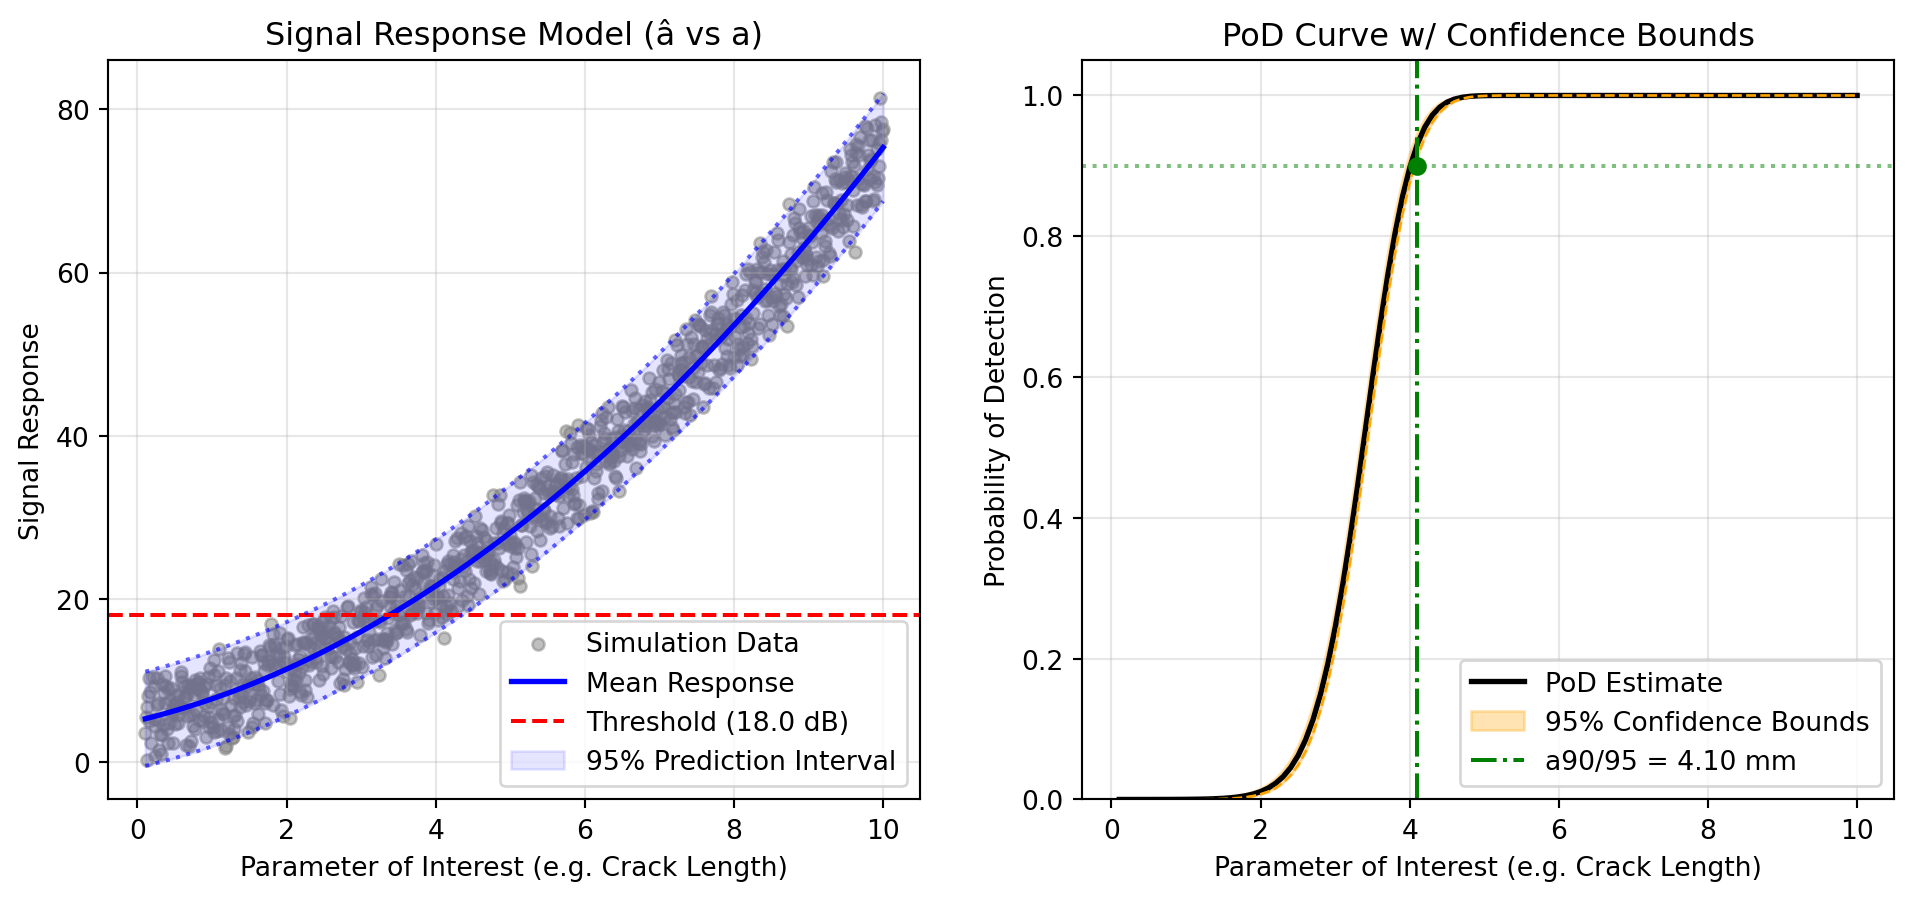
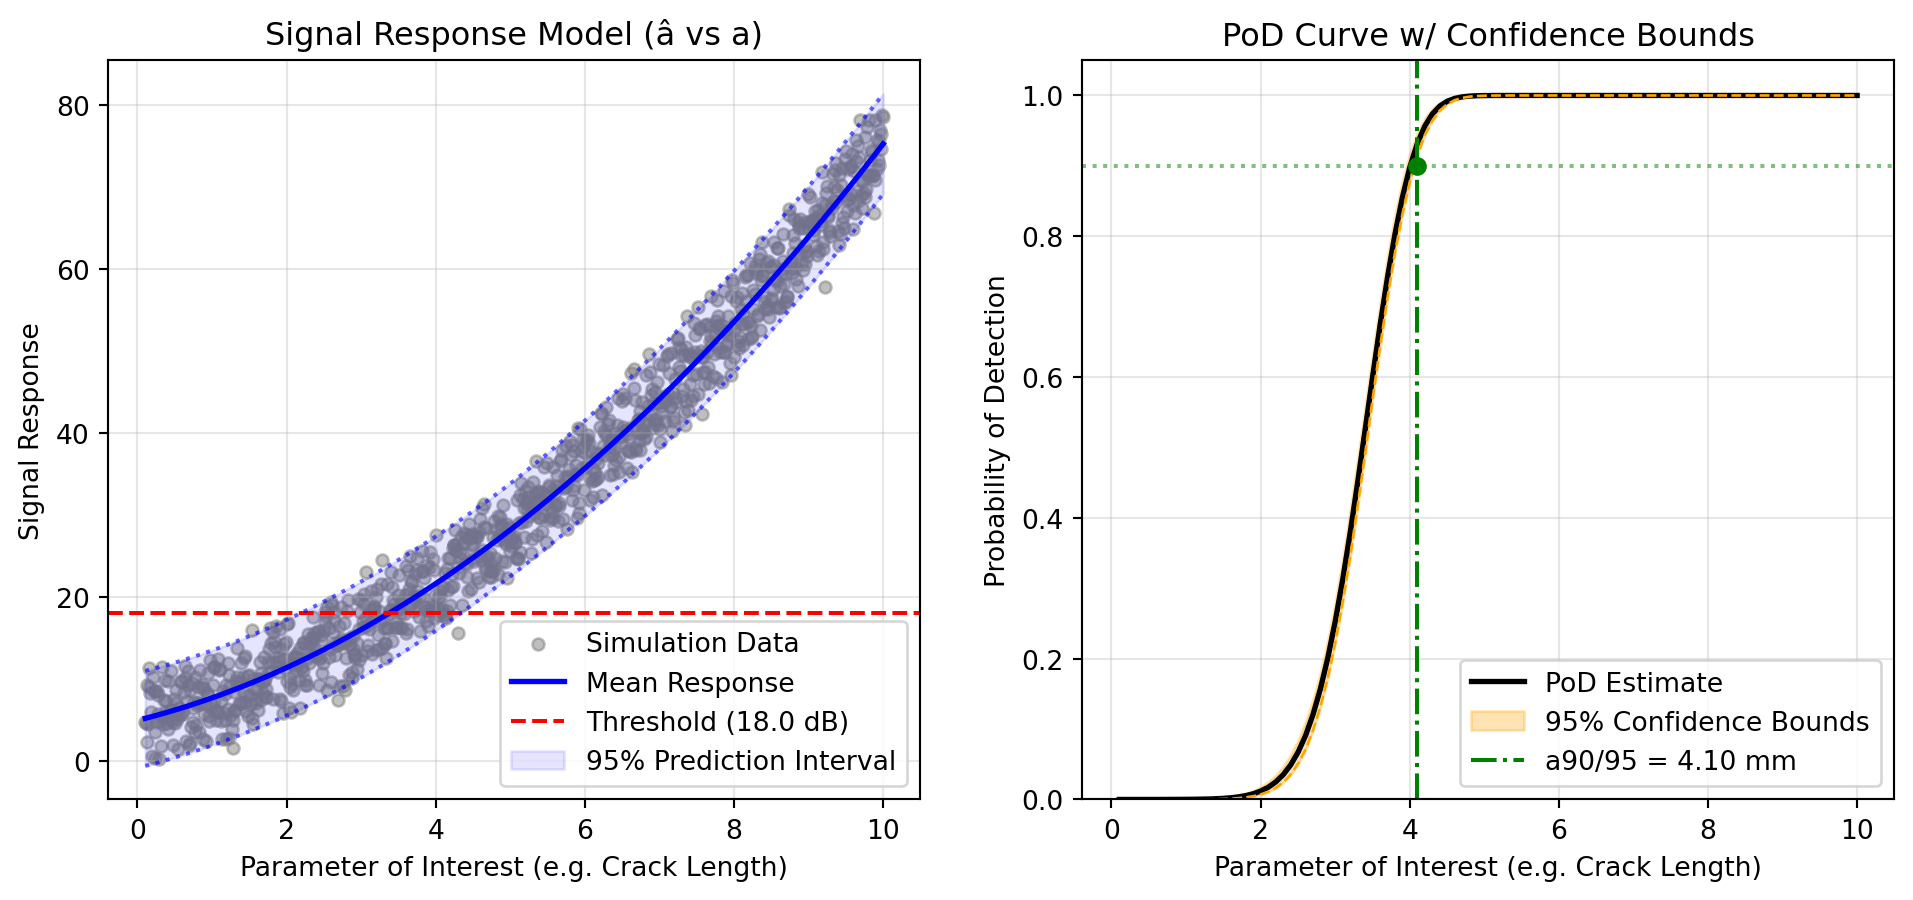
Built site for gh-pages

diff --git a/docs/quick_start_oop.html b/docs/quick_start_oop.html
@@ -433,7 +433,7 @@ pre > code.sourceCode > span > a:first-child::before { text-decoration: underlin
 <section id="setup-flawed-data-generation" class="level3">
 <h3 class="anchored" data-anchor-id="setup-flawed-data-generation">1. Setup &amp; “Flawed” Data Generation</h3>
 <p>First, we define our physics simulation and create a dataset with a deliberate gap (missing data between 3mm and 7mm).</p>
-<div id="d4b56255" class="cell" data-execution_count="1">
+<div id="da3256a0" class="cell" data-execution_count="1">
 <div class="code-copy-outer-scaffold"><div class="sourceCode cell-code" id="cb1"><pre class="sourceCode python code-with-copy"><code class="sourceCode python"><span id="cb1-1"><a href="#cb1-1" aria-hidden="true" tabindex="-1"></a><span class="im">import</span> numpy <span class="im">as</span> np</span>
 <span id="cb1-2"><a href="#cb1-2" aria-hidden="true" tabindex="-1"></a><span class="im">import</span> pandas <span class="im">as</span> pd</span>
 <span id="cb1-3"><a href="#cb1-3" aria-hidden="true" tabindex="-1"></a><span class="im">import</span> digiqual <span class="im">as</span> dq</span>
@@ -483,7 +483,7 @@ pre > code.sourceCode > span > a:first-child::before { text-decoration: underlin
 <section id="diagnosis-detecting-the-issue" class="level3">
 <h3 class="anchored" data-anchor-id="diagnosis-detecting-the-issue">2. Diagnosis (Detecting the Issue)</h3>
 <p>We now ask the study manager to diagnose the health of our experiment. We expect it to flag the Input Coverage test because of the gap we created.</p>
-<div id="789486cc" class="cell" data-execution_count="2">
+<div id="a0acb8c0" class="cell" data-execution_count="2">
 <div class="code-copy-outer-scaffold"><div class="sourceCode cell-code" id="cb3"><pre class="sourceCode python code-with-copy"><code class="sourceCode python"><span id="cb3-1"><a href="#cb3-1" aria-hidden="true" tabindex="-1"></a>study.diagnose()</span></code></pre></div><button title="Copy to Clipboard" class="code-copy-button"><i class="bi"></i></button></div>
 <div class="cell-output cell-output-stdout">
 <pre><code>Running validation...
@@ -511,7 +511,7 @@ Checking sample sufficiency...</code></pre>
 <td>Input Coverage</td>
 <td>Length</td>
 <td>Max Gap Ratio</td>
-<td>0.4385</td>
+<td>0.4304</td>
 <td>False</td>
 </tr>
 <tr class="even">
@@ -519,7 +519,7 @@ Checking sample sufficiency...</code></pre>
 <td>Input Coverage</td>
 <td>Angle</td>
 <td>Max Gap Ratio</td>
-<td>0.1492</td>
+<td>0.1007</td>
 <td>True</td>
 </tr>
 <tr class="odd">
@@ -527,7 +527,7 @@ Checking sample sufficiency...</code></pre>
 <td>Input Coverage</td>
 <td>Roughness</td>
 <td>Max Gap Ratio</td>
-<td>0.0871</td>
+<td>0.1401</td>
 <td>True</td>
 </tr>
 <tr class="even">
@@ -543,7 +543,7 @@ Checking sample sufficiency...</code></pre>
 <td>Bootstrap Convergence</td>
 <td>Signal</td>
 <td>Relative CI Width</td>
-<td>0.2391</td>
+<td>0.1017</td>
 <td>False</td>
 </tr>
 </tbody>
@@ -556,7 +556,7 @@ Checking sample sufficiency...</code></pre>
 <section id="adaptive-refinement-the-fix" class="level3">
 <h3 class="anchored" data-anchor-id="adaptive-refinement-the-fix">3. Adaptive Refinement (The Fix)</h3>
 <p>Instead of manually guessing where to add points, we use refine(). The study manager automatically detects the gap and generates targeted samples to fill it.</p>
-<div id="b7eb5409" class="cell" data-execution_count="3">
+<div id="c6aca30f" class="cell" data-execution_count="3">
 <div class="code-copy-outer-scaffold"><div class="sourceCode cell-code" id="cb5"><pre class="sourceCode python code-with-copy"><code class="sourceCode python"><span id="cb5-1"><a href="#cb5-1" aria-hidden="true" tabindex="-1"></a><span class="co"># Generate active learning samples (20 points to fill the gap)</span></span>
 <span id="cb5-2"><a href="#cb5-2" aria-hidden="true" tabindex="-1"></a>new_samples <span class="op">=</span> study.refine(n_points<span class="op">=</span><span class="dv">20</span>)</span>
 <span id="cb5-3"><a href="#cb5-3" aria-hidden="true" tabindex="-1"></a></span>
@@ -586,7 +586,7 @@ Checking sample sufficiency...</code></pre>
 </div>
 </div>
 <p>Now we verify that the issue is resolved:</p>
-<div id="3331cd2f" class="cell" data-execution_count="4">
+<div id="8304bc5f" class="cell" data-execution_count="4">
 <div class="code-copy-outer-scaffold"><div class="sourceCode cell-code" id="cb8"><pre class="sourceCode python code-with-copy"><code class="sourceCode python"><span id="cb8-1"><a href="#cb8-1" aria-hidden="true" tabindex="-1"></a><span class="co"># Re-run diagnostics to confirm the green light</span></span>
 <span id="cb8-2"><a href="#cb8-2" aria-hidden="true" tabindex="-1"></a>study.diagnose()</span></code></pre></div><button title="Copy to Clipboard" class="code-copy-button"><i class="bi"></i></button></div>
 <div class="cell-output cell-output-stdout">
@@ -615,7 +615,7 @@ Checking sample sufficiency...</code></pre>
 <td>Input Coverage</td>
 <td>Length</td>
 <td>Max Gap Ratio</td>
-<td>0.0429</td>
+<td>0.0726</td>
 <td>True</td>
 </tr>
 <tr class="even">
@@ -623,7 +623,7 @@ Checking sample sufficiency...</code></pre>
 <td>Input Coverage</td>
 <td>Angle</td>
 <td>Max Gap Ratio</td>
-<td>0.0526</td>
+<td>0.0516</td>
 <td>True</td>
 </tr>
 <tr class="odd">
@@ -631,7 +631,7 @@ Checking sample sufficiency...</code></pre>
 <td>Input Coverage</td>
 <td>Roughness</td>
 <td>Max Gap Ratio</td>
-<td>0.0560</td>
+<td>0.0642</td>
 <td>True</td>
 </tr>
 <tr class="even">
@@ -639,7 +639,7 @@ Checking sample sufficiency...</code></pre>
 <td>Model Fit (CV)</td>
 <td>Signal</td>
 <td>Mean R2 Score</td>
-<td>0.9983</td>
+<td>0.9979</td>
 <td>True</td>
 </tr>
 <tr class="odd">
@@ -647,7 +647,7 @@ Checking sample sufficiency...</code></pre>
 <td>Bootstrap Convergence</td>
 <td>Signal</td>
 <td>Relative CI Width</td>
-<td>0.0308</td>
+<td>0.0418</td>
 <td>True</td>
 </tr>
 </tbody>
@@ -698,9 +698,9 @@ Checking sample sufficiency...</code></pre>
 <div class="cell-output cell-output-stdout">
 <pre><code>--- Starting Reliability Analysis (PoI: Length) ---
 1. Selecting Mean Model (Cross-Validation)...
-   -&gt; Selected Polynomial Degree: 5
+   -&gt; Selected Polynomial Degree: 3
 2. Fitting Variance Model (Kernel Smoothing)...
-   -&gt; Smoothing Bandwidth: 0.9796
+   -&gt; Smoothing Bandwidth: 0.9681
 3. Inferring Error Distribution (AIC)...
    -&gt; Selected Distribution: norm
 4. Computing PoD Curve...

diff --git a/docs/quick_start_function.html b/docs/quick_start_function.html
@@ -462,7 +462,7 @@ window.Quarto = {
 <section id="generating-an-experimental-design" class="level3">
 <h3 class="anchored" data-anchor-id="generating-an-experimental-design">Generating an Experimental Design</h3>
 <p>Create a Latin Hypercube design for a simulation study involving defect size (<span class="math inline">\(a\)</span>), angle (<span class="math inline">\(\theta\)</span>) and roughness (<span class="math inline">\(\sigma_{R}\)</span>).</p>
-<div id="ce8bfdde" class="cell" data-execution_count="2">
+<div id="c70b70dd" class="cell" data-execution_count="2">
 <div class="code-copy-outer-scaffold"><div class="sourceCode cell-code" id="cb1"><pre class="sourceCode python code-with-copy"><code class="sourceCode python"><span id="cb1-1"><a href="#cb1-1" aria-hidden="true" tabindex="-1"></a><span class="im">import</span> pandas <span class="im">as</span> pd</span>
 <span id="cb1-2"><a href="#cb1-2" aria-hidden="true" tabindex="-1"></a><span class="im">import</span> numpy <span class="im">as</span> np</span>
 <span id="cb1-3"><a href="#cb1-3" aria-hidden="true" tabindex="-1"></a><span class="im">from</span> digiqual.sampling <span class="im">import</span> generate_lhs</span>
@@ -533,7 +533,7 @@ window.Quarto = {
 <section id="validating-simulation-data" class="level3">
 <h3 class="anchored" data-anchor-id="validating-simulation-data">Validating Simulation Data</h3>
 <p>Once you have your simulation results, ensure they are ready for PoD analysis.</p>
-<div id="ad80a700" class="cell" data-execution_count="3">
+<div id="8a67f405" class="cell" data-execution_count="3">
 <div class="code-copy-outer-scaffold"><div class="sourceCode cell-code" id="cb2"><pre class="sourceCode python code-with-copy"><code class="sourceCode python"><span id="cb2-1"><a href="#cb2-1" aria-hidden="true" tabindex="-1"></a><span class="im">from</span> digiqual.diagnostics <span class="im">import</span> validate_simulation</span>
 <span id="cb2-2"><a href="#cb2-2" aria-hidden="true" tabindex="-1"></a></span>
 <span id="cb2-3"><a href="#cb2-3" aria-hidden="true" tabindex="-1"></a><span class="kw">def</span> apply_physics(df):</span>
@@ -559,17 +559,17 @@ window.Quarto = {
 <span id="cb2-23"><a href="#cb2-23" aria-hidden="true" tabindex="-1"></a>display(Markdown(<span class="ss">f"**Valid rows:** </span><span class="sc">{</span><span class="bu">len</span>(df_clean)<span class="sc">}</span><span class="ss">"</span>))</span>
 <span id="cb2-24"><a href="#cb2-24" aria-hidden="true" tabindex="-1"></a>display(Markdown(<span class="ss">f"**Dropped rows:** </span><span class="sc">{</span><span class="bu">len</span>(df_removed)<span class="sc">}</span><span class="ss">"</span>))</span></code></pre></div><button title="Copy to Clipboard" class="code-copy-button"><i class="bi"></i></button></div>
 <div class="cell-output cell-output-display cell-output-markdown">
-<p><strong>Valid rows:</strong> 999</p>
+<p><strong>Valid rows:</strong> 1000</p>
 </div>
 <div class="cell-output cell-output-display cell-output-markdown">
-<p><strong>Dropped rows:</strong> 1</p>
+<p><strong>Dropped rows:</strong> 0</p>
 </div>
 </div>
 </section>
 <section id="checking-sample-sufficiency" class="level3">
 <h3 class="anchored" data-anchor-id="checking-sample-sufficiency">Checking Sample Sufficiency</h3>
 <p>We have validated data so now we want to check if we have enough samples to produce an accurate PoD Curve.</p>
-<div id="8bfe920a" class="cell" data-execution_count="4">
+<div id="054088e5" class="cell" data-execution_count="4">
 <div class="code-copy-outer-scaffold"><div class="sourceCode cell-code" id="cb3"><pre class="sourceCode python code-with-copy"><code class="sourceCode python"><span id="cb3-1"><a href="#cb3-1" aria-hidden="true" tabindex="-1"></a><span class="im">from</span> digiqual.diagnostics <span class="im">import</span> sample_sufficiency</span>
 <span id="cb3-2"><a href="#cb3-2" aria-hidden="true" tabindex="-1"></a></span>
 <span id="cb3-3"><a href="#cb3-3" aria-hidden="true" tabindex="-1"></a>ss <span class="op">=</span> sample_sufficiency(</span>
@@ -599,7 +599,7 @@ window.Quarto = {
 <td>Input Coverage</td>
 <td>Length</td>
 <td>Max Gap Ratio</td>
-<td>0.0021</td>
+<td>0.0019</td>
 <td>True</td>
 </tr>
 <tr class="even">
@@ -607,7 +607,7 @@ window.Quarto = {
 <td>Input Coverage</td>
 <td>Angle</td>
 <td>Max Gap Ratio</td>
-<td>0.0027</td>
+<td>0.0020</td>
 <td>True</td>
 </tr>
 <tr class="odd">
@@ -615,7 +615,7 @@ window.Quarto = {
 <td>Input Coverage</td>
 <td>Roughness</td>
 <td>Max Gap Ratio</td>
-<td>0.0024</td>
+<td>0.0020</td>
 <td>True</td>
 </tr>
 <tr class="even">
@@ -623,7 +623,7 @@ window.Quarto = {
 <td>Model Fit (CV)</td>
 <td>Signal</td>
 <td>Mean R2 Score</td>
-<td>0.9947</td>
+<td>0.9940</td>
 <td>True</td>
 </tr>
 <tr class="odd">
@@ -631,7 +631,7 @@ window.Quarto = {
 <td>Bootstrap Convergence</td>
 <td>Signal</td>
 <td>Relative CI Width</td>
-<td>0.0142</td>
+<td>0.0144</td>
 <td>True</td>
 </tr>
 </tbody>
@@ -644,7 +644,7 @@ window.Quarto = {
 <section id="adaptive-refinement-check" class="level3">
 <h3 class="anchored" data-anchor-id="adaptive-refinement-check">Adaptive Refinement Check</h3>
 <p>We now run the targeted sampler. Because <code>generate_lhs</code> provides good coverage by default, we expect the adaptive module to return an empty result, confirming no more work is needed.</p>
-<div id="7a09251b" class="cell" data-execution_count="5">
+<div id="4cda7a11" class="cell" data-execution_count="5">
 <div class="code-copy-outer-scaffold"><div class="sourceCode cell-code" id="cb4"><pre class="sourceCode python code-with-copy"><code class="sourceCode python"><span id="cb4-1"><a href="#cb4-1" aria-hidden="true" tabindex="-1"></a><span class="im">from</span> digiqual.adaptive <span class="im">import</span> generate_targeted_samples</span>
 <span id="cb4-2"><a href="#cb4-2" aria-hidden="true" tabindex="-1"></a></span>
 <span id="cb4-3"><a href="#cb4-3" aria-hidden="true" tabindex="-1"></a>new_samples <span class="op">=</span> generate_targeted_samples(</span>
